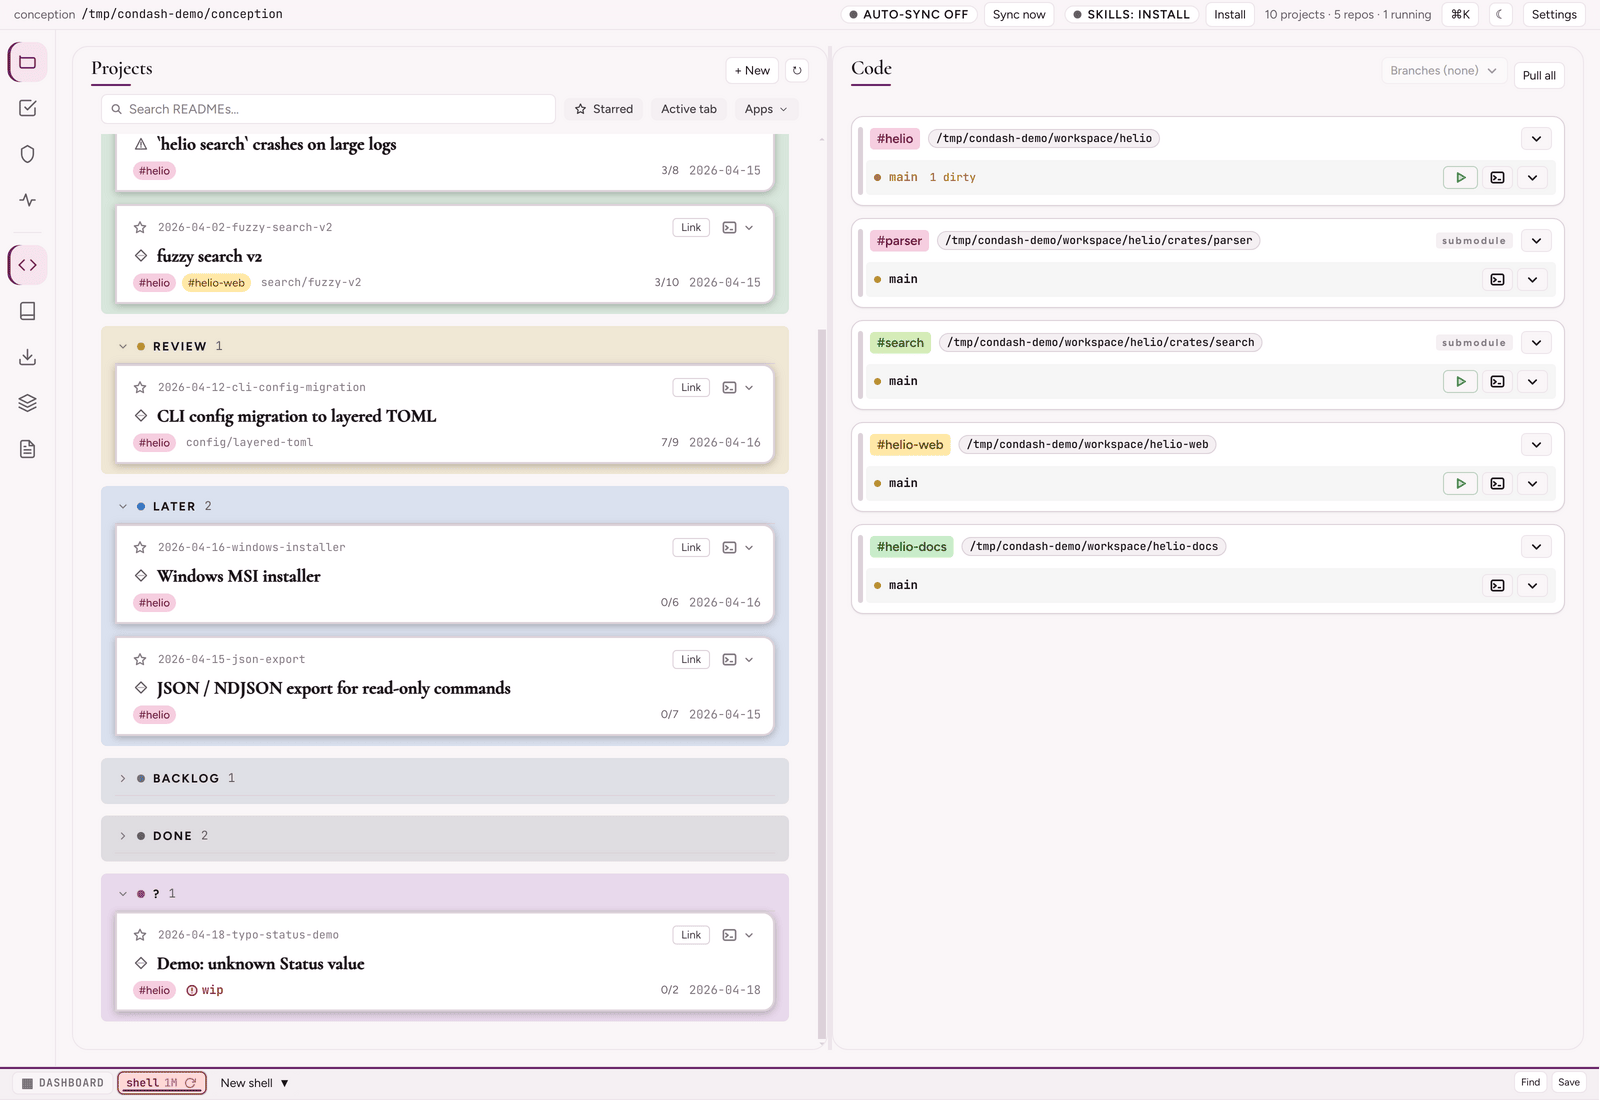
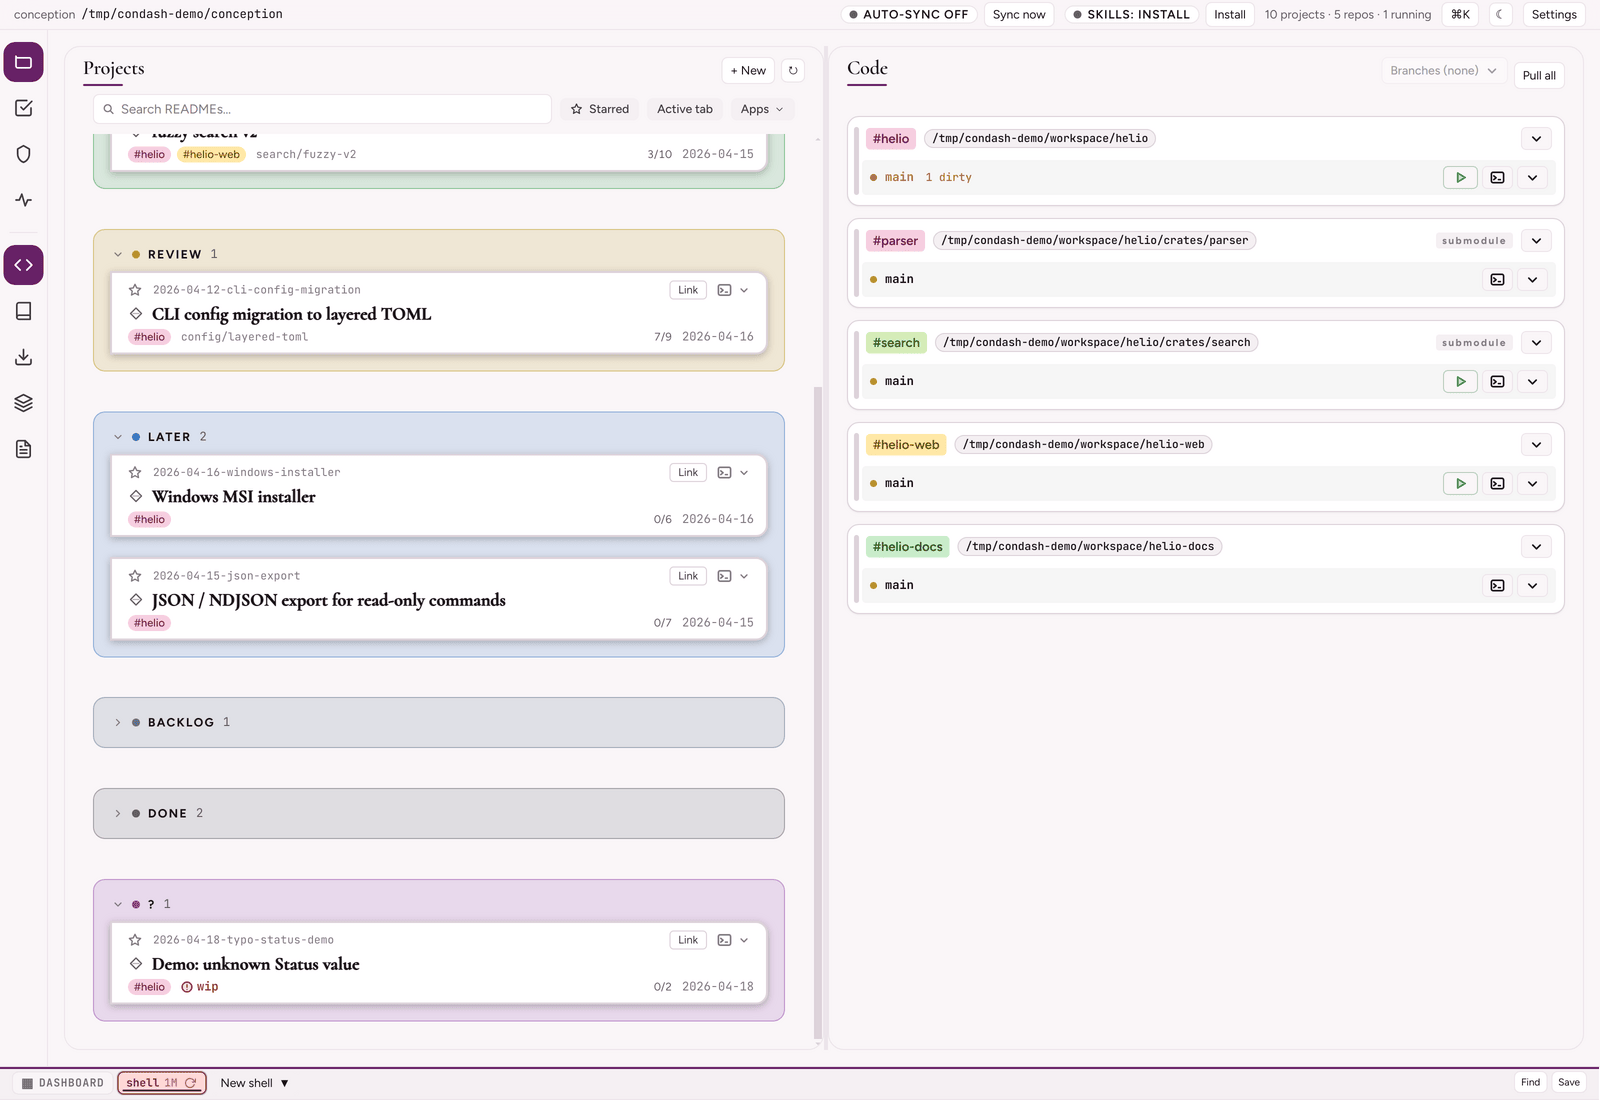
projects pane: compact the card, separate the status sections
The card and the section stack were both tuned for density and had drifted into reading as one undifferentiated surface. Measured on a booted app, the rendered gap between two status panels was 12px — exactly the gap between two cards inside one — so two adjacent status washes read as a single surface with a colour change in the middle. Extra whitespace alone could not fix that, because the panels had no drawn end.

Sections now carry a 1px border in their own status hue at 45% (deliberately quieter than a card's 2px frame at full strength) with the --radius-lg corner, and 32px of bare background between them; the rendered panel gap is 40px against a 20px card gap. The header underline goes with it — redundant once the panel has an edge — and empty lanes and Done's month subgroups get proportionate margins so they separate one order below.
[…]

diff --git a/src/renderer/panes/projects-pane.css b/src/renderer/panes/projects-pane.css
@@ -191,15 +191,23 @@
   border-radius: var(--radius);
   contain: layout paint;
   transition: background 120ms ease;
-  padding: 4px 0 10px;
+  padding: 8px 0 16px;
 }
 
-/* Section spacing comes from negative space, not from a horizontal rule.
- * Non-empty sections get a little breathing room above so each block reads
- * as its own group without needing a graphic separator. Kept tight so the
- * status sections stack compactly. */
+/* Section spacing. The gap between two panels has to be an order above the
+ * gap between two cards inside one — at the former 4px margin the rendered
+ * distance between panels measured 12px, exactly the card gap, so two
+ * status washes read as one continuous surface with a colour change in the
+ * middle. 32px of bare background plus the drawn edge below is the boundary;
+ * whitespace alone was never going to be enough. */
 .group-block:not([data-empty='true']) {
-  margin-top: 4px;
+  margin-top: 32px;
+}
+
+/* An empty lane keeps its thin collapsed line and no panel chrome, but must
+ * not sit flush against the panel above it. */
+.group-block[data-empty='true']:not([data-status='now']) {
+  margin-top: 8px;
 }
 
 /* Status-coloured section wash — the status signal moved off the cards
@@ -210,8 +218,14 @@
  * rounded tint panel. */
 .projects-stack > .group-block:not([data-empty='true']) {
   background: color-mix(in srgb, var(--col-status, var(--border-strong)) 16%, transparent);
-  padding-left: 14px;
-  padding-right: 14px;
+  /* A drawn edge, so the panel ends somewhere definite. Deliberately quieter
+   * than a card's frame — 1px at 45% against the card's 2px at full strength
+   * — so it delimits without turning the pane into nested boxes. The radius
+   * token (not a literal) keeps Console's crisper 8px corners. */
+  border: 1px solid color-mix(in srgb, var(--col-status, var(--border-strong)) 45%, transparent);
+  border-radius: var(--radius-lg);
+  padding-left: 16px;
+  padding-right: 16px;
 }
 
 .group-block:first-child {
@@ -301,18 +315,12 @@ body[data-dragging='project'] .group-block.drag-over {
   cursor: pointer;
   user-select: none;
   flex-shrink: 0;
-  border-bottom: 1px solid var(--border-strong);
 }
 
 /* A section the filter bar holds open: the header is not a toggle for the
  * duration, so it does not invite a click. */
 .group-header.held-open {
   cursor: default;
-}
-
-/* Subgroup headers are nested and should stay subtle — no dividing rule. */
-.group-block.subgroup > .group-header {
-  border-bottom: none;
 }
 
 /* The trailing slot pushes any header action (NOW gets the "+ New project"
@@ -391,7 +399,7 @@ body[data-dragging='project'] .group-block.drag-over {
    * feeds it the pane's min-width (settings.json `cardMinWidth.projects`;
    * the fallback mirrors DEFAULT_CARD_MIN_WIDTH) and the Projects gap. */
   --card-min: var(--card-min-projects, 520px);
-  --card-gap: 12px;
+  --card-gap: 20px;
   padding: 0;
 }
 
@@ -408,7 +416,10 @@ body[data-dragging='project'] .group-block.drag-over {
  * Lighter chrome than the outer status group: no top margin between
  * siblings, a smaller header, and a subtle left rail to read as nested. */
 .group-block.subgroup {
-  margin-top: 0;
+  /* Done's month subgroups separate from each other one order below the
+   * status sections: enough to read as distinct months, never enough to
+   * compete with the panel boundaries around them. */
+  margin-top: 16px;
   padding: 2px 0 8px 12px;
   border-left: 1px solid var(--border);
 }
@@ -460,7 +471,7 @@ body[data-dragging='project'] .row {
   display: flex;
   flex-direction: column;
   gap: 6px;
-  padding: 10px 12px 10px 16px;
+  padding: 7px 12px 7px 16px;
   /* Full frame in --row-stripe: neutral for a standalone card. A family card
    * (parent/subproject) drops the top/bottom sides and wears only its
    * directional edge(s) in the family colour (status lives on the section's
@@ -834,7 +845,7 @@ body[data-dragging='project'] .row {
   font-family: var(--ui-font-card-title, var(--font-serif-base));
   font-weight: 700;
   font-size: var(--text-xl);
-  line-height: 1.25;
+  line-height: 1.15;
   /* Plain text ink, or the family-tinted mix a .row.in-family card sets in
    * --row-title-color. currentColor carries the same tint into the
    * faux-weight stroke/shadow. */
@@ -874,7 +885,7 @@ body[data-dragging='project'] .row {
 .row-head {
   display: flex;
   flex-direction: column;
-  gap: 6px;
+  gap: 4px;
 }
 
 .row .meta {
@@ -885,6 +896,13 @@ body[data-dragging='project'] .row {
   margin-top: 4px;
   font-size: var(--text-xs);
   color: var(--text-muted);
+}
+
+/* Scoped to the card on purpose — `.app-pill` is shared with the Code pane,
+ * the terminal tab strip and the Projects filter bar, none of which are being
+ * compacted. */
+.row .meta .app-pill {
+  line-height: 1.3;
 }
 
 .row .meta-spacer {
@@ -971,6 +989,17 @@ body[data-dragging='project'] .row {
 
 .row .row-action:active {
   transform: scale(0.96);
+}
+
+/* The card's work-on control is an `.action-dropdown-button`, so its height
+ * comes from this padding and NOT from the fixed 26px box `.row .row-action`
+ * declares — measured, that box never wins here (the button renders 23px, i.e.
+ * the 15px glyph plus its own padding and border). Trimming the padding is
+ * therefore the only thing that shortens the chrome row; the glyph is
+ * untouched. The row floors at 20px, the star's box, which keeps its size so
+ * the pointer target does not shrink for no gain. */
+.row .title-actions .action-dropdown-button.row-action {
+  padding: 1px 4px;
 }
 
 /* Verb→colour matches the actions.css tone palette: work = green (go live),
